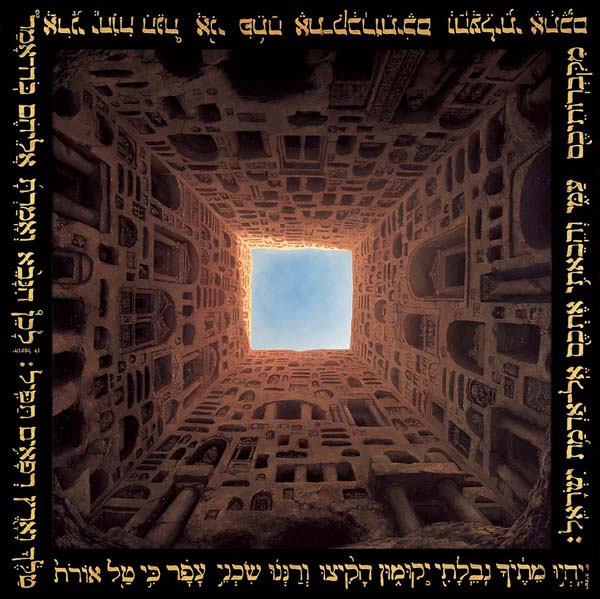
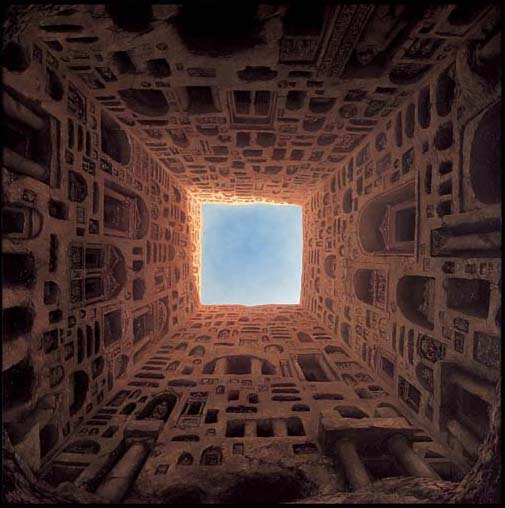
removed frame for one painting and portraits and press links from homepage

diff --git a/indexpt.html b/indexpt.html
@@ -69,10 +69,10 @@
               <ul class="nav">
                 <li><a href="authorpt.html">Autor<!-- Author --></a></li>
                 <li><a href="gallerypt.html">Galeria<!-- Gallery --></a></li>
-                <li><a href="presspt.html">Press</a></li>
+                <!-- <li><a href="presspt.html">Press</a></li> -->
                 <li><a href="mediapt.html">Media</a></li>
                 <li><a href="http://society6.com/barahonapossollo" target="_blank">Estampas<!-- Prints --></a></li>
-                <li><a href="portraitspt.html">Retratos<!-- Portraits --></a></li>
+                <!-- <li><a href="portraitspt.html">Retratos</a></li> -->
                 <li class="divider-vertical"></li>
                 <li><a href="index.html">English</a></li>
                	<li><a href="#myModal" data-toggle="modal"><i class="icon-envelope"></i></a></li>

diff --git a/index.html b/index.html
@@ -48,10 +48,10 @@
               <ul class="nav">
                 <li><a href="author.html"><!-- Autor -->Author</a></li>
                 <li><a href="gallery.html"><!-- Galeria -->Gallery</a></li>
-                <li><a href="press.html">Press</a></li>
+                <!-- <li><a href="press.html">Press</a></li> -->
                 <li><a href="media.html">Media</a></li>
                 <li><a href="http://society6.com/barahonapossollo" target="_blank"><!-- Estampas -->Prints</a></li>
-                <li><a href="portraits.html"><!-- Retratos -->Portraits</a></li>
+                <!-- <li><a href="portraits.html">Portraits</a></li> -->
                 <li class="divider-vertical"></li>
                 <li><a href="indexpt.html">Portugu&ecirc;s</a></li>
                	<li><a href="#myModal" data-toggle="modal"><i class="icon-envelope"></i></a></li>
